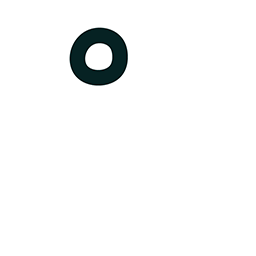
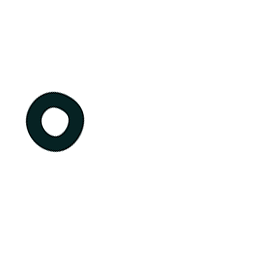
modified:   src/assets/img/eye.png

Changed region(s): [[0.25, 0.0938, 0.5, 0.3438], [0.0938, 0.3438, 0.3438, 0.5938]]

diff --git a/src/components/Eye/index.js b/src/components/Eye/index.js
@@ -1,0 +1,59 @@
+import React from "react";
+import EyeImg from "../../assets/img/eye.png";
+import useWindowDimensions from '../../hooks/useWindowDimensions';
+import "./Eye.css";
+
+const Eye = props => {
+  
+  const mousePosition = useMousePosition();
+  const { width, height } = useWindowDimensions();
+
+  /*
+  const eyeRef = React.useRef();
+  const eyeX = eyeRef.current.offsetLeft;
+  const eyeY = eyeRef.current.offsetTop;
+  
+  const relX = width / eyeX;
+  const relY = height / eyeY;
+*/
+  const deltaX = (width/2) - mousePosition.x;
+  const deltaY = (height/2) -  mousePosition.y;
+
+  const rad = Math.atan2(deltaY, deltaX);
+  let deg = Math.round(rad * (180 / Math.PI));
+  if(deg <0) {
+    deg = (deg + 360) % 360;
+  }
+
+  return <>
+      <div id={props.id} className="eye">
+        <img src={EyeImg} style={{ transform: `rotate(${deg}deg)` }} alt="eye" />
+       {/* <h1>{deg}</h1>*/}
+      </div>
+    </>
+}
+
+const useMousePosition = () => {
+  const [
+    mousePosition,
+    setMousePosition
+  ] = React.useState({ x: null, y: null });
+
+    React.useEffect(() => {
+    const updateMousePosition = ev => {
+      setMousePosition({ x: ev.clientX, y: ev.clientY });
+    };
+    
+    window.addEventListener('mousemove', updateMousePosition);
+
+    return () => {
+      window.removeEventListener('mousemove', updateMousePosition);
+    };
+  }, []);
+
+  return mousePosition;
+};
+
+export default Eye;
+  
+

diff --git a/src/components/Legendary/index.js b/src/components/Legendary/index.js
@@ -1,12 +1,12 @@
 import React from "react";
 import Slider from "../Slider";
-import Eye from "../../assets/img/eye.png";
 import "./Legendary.css";
+import Eye from "../Eye";
 
 const Legendary = ({legend}) => {
     return <>
         <div className="legendary-container section-container">
-                <div className="legendary-eye" ref={legend}><img src={Eye} alt="eye" /></div>
+            <Eye id="legendary-eye" ref={legend} />
             <div className="legendary-content">
                 <h2 className="section-title" >LEGENDARY</h2>
                 <p className="section-desc">Lorem ipsum dolor sit amet, consectetur adipiscing elit, sed do eiusmod tempor incididunt ut labore et dolore magna aliqua. Ut enim ad minim veniam, quis nostrud exercitation ullamco laboris nisi ut aliquip ex ea commodo consequat. Duis aute irure dolor in reprehenderit in voluptate velit esse cillum dolore eu fugiat nulla pariatur. Excepteur sint occaecat cupidatat non proident, sunt in culpa qui officia deserunt mollit anim id est laborum.</p>

diff --git a/src/components/About/index.js b/src/components/About/index.js
@@ -1,15 +1,15 @@
 import React from "react";
-import Eye from "../../assets/img/eye.png";
 import Bg_Pink from "../../assets/img/bg-pink-1.png";
 import "./About.css";
+import Eye from "../Eye";
 
 const About = () => {
     return <>
     
         <div className="about-sep"><img src={Bg_Pink} alt="Bg_Pink" /></div>
         <div className="about-container section-container">
+            <Eye id="about-eye" />
             <div className="about-content">
-                <div className="about-eye"><img src={Eye} alt="eye" /></div>
                 <h2 className="section-title">ABOUT CLITOPIA</h2>
                 <div className="section-desc">
                     <p>The story goes that when mother Serotonix was a baby she fell down into a pot containing magic potion, causing her to be in a permenant state of super strength...

diff --git a/src/hooks/useWindowDimensions.js b/src/hooks/useWindowDimensions.js
@@ -1,0 +1,30 @@
+import { useState, useEffect } from 'react';
+
+export default function useWindowDimensions() {
+
+  const hasWindow = typeof window !== 'undefined';
+
+  function getWindowDimensions() {
+    const width = hasWindow ? window.innerWidth : null;
+    const height = hasWindow ? window.innerHeight : null;
+    return {
+      width,
+      height,
+    };
+  }
+
+  const [windowDimensions, setWindowDimensions] = useState(getWindowDimensions());
+
+  useEffect(() => {
+    if (hasWindow) {
+      function handleResize() {
+        setWindowDimensions(getWindowDimensions());
+      }
+
+      window.addEventListener('resize', handleResize);
+      return () => window.removeEventListener('resize', handleResize);
+    }
+  }, [hasWindow]);
+
+  return windowDimensions;
+}

diff --git a/src/hooks/useMousePosition.js b/src/hooks/useMousePosition.js
@@ -1,0 +1,23 @@
+import { useState, useEffect } from 'react';
+
+const useMousePosition = () => {
+    
+    const [
+        mousePosition,
+        setMousePosition
+    ] = useState({ x: null, y: null });
+    
+    useEffect(() => {
+        const updateMousePosition = ev => {
+        setMousePosition({ x: ev.clientX, y: ev.clientY });
+        };
+        window.addEventListener('mousemove', updateMousePosition);
+        return () => {
+            window.removeEventListener('mousemove', updateMousePosition);
+        };
+    }, []);
+
+    return mousePosition;
+};
+
+export default useMousePosition;

diff --git a/src/components/Manifesto/Manifesto.css b/src/components/Manifesto/Manifesto.css
@@ -55,19 +55,19 @@ ol li:before {
     font-weight: 700;
     display: inline-block;
 }
-.manifesto-eye {
+#manifesto-eye {
     display: block;
     position: absolute;
-    bottom:0;
+    bottom:2vw;
     right:20vw;
 }
-.manifesto-eye img {
-    width: 30vw;
+#manifesto-eye img {
+    width: 18vw;
 }
 
 @media only screen and (max-width: 600px) { 
-    .manifesto-eye img {
-        width: 20vw;
+    #manifesto-eye img {
+        width: 12vw;
     }
     .manifesto-container {
         padding: 15vw 2vw 15vw 8vw;

diff --git a/src/components/Manifesto/index.js b/src/components/Manifesto/index.js
@@ -1,6 +1,6 @@
 import React from "react";
-import Eye from "../../assets/img/eye.png";
 import "./Manifesto.css";
+import Eye from "../Eye";
 
 const Manifesto = ({ menifesto }) => {
     return <>
@@ -18,7 +18,7 @@ const Manifesto = ({ menifesto }) => {
                     </ol>
                 </div>
             </div>
-            <div className="manifesto-eye"><img src={Eye} alt="O_O" /></div>
+            <Eye id="manifesto-eye" />
         </div>
     </>
 }

diff --git a/src/components/Eye/Eye.css b/src/components/Eye/Eye.css
@@ -1,0 +1,24 @@
+.eye {
+    display: block;
+    position: absolute;
+}
+.eye img {
+    width: 10vw;
+}
+
+
+@media only screen and (max-width: 1200px) {
+    .eye img {
+        width: 6vw;
+    }
+}
+@media only screen and (max-width: 768px) {
+    .eye img {
+        width: 12vw;
+    }
+}
+@media only screen and (max-width: 320px) {
+    .eye img {
+        width: 18vw;
+    }
+}

diff --git a/src/components/Legendary/Legendary.css b/src/components/Legendary/Legendary.css
@@ -21,20 +21,14 @@
 .legendary-content p{
     color: #000;
 }
-.legendary-eye {
+#legendary-eye {
     display: block;
     position: absolute;
     top:0;
     left:20vw;
 }
-.legendary-eye img {
-    width: 80px;
-}
 
 @media only screen and (max-width: 600px) { 
-    .legendary-eye img {
-        width: 40px;
-    }
     .legendary-content {
         padding: 0 10vw;
     }

diff --git a/src/components/About/About.css b/src/components/About/About.css
@@ -24,13 +24,13 @@
     color: white;
 }
 
-.about-eye {
+#about-eye {
     display: block;
     position: absolute;
-    bottom:0;
+    bottom:1vw;
     right:20vw;
 }
-.about-eye img {
+#about-eye img {
     width: 8vw;
 }
 
